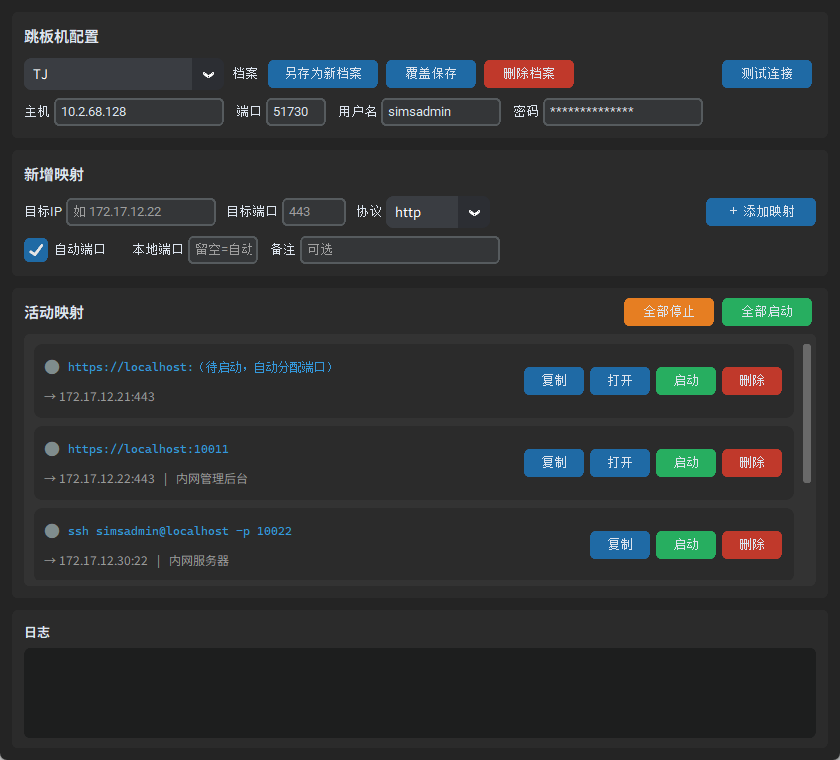
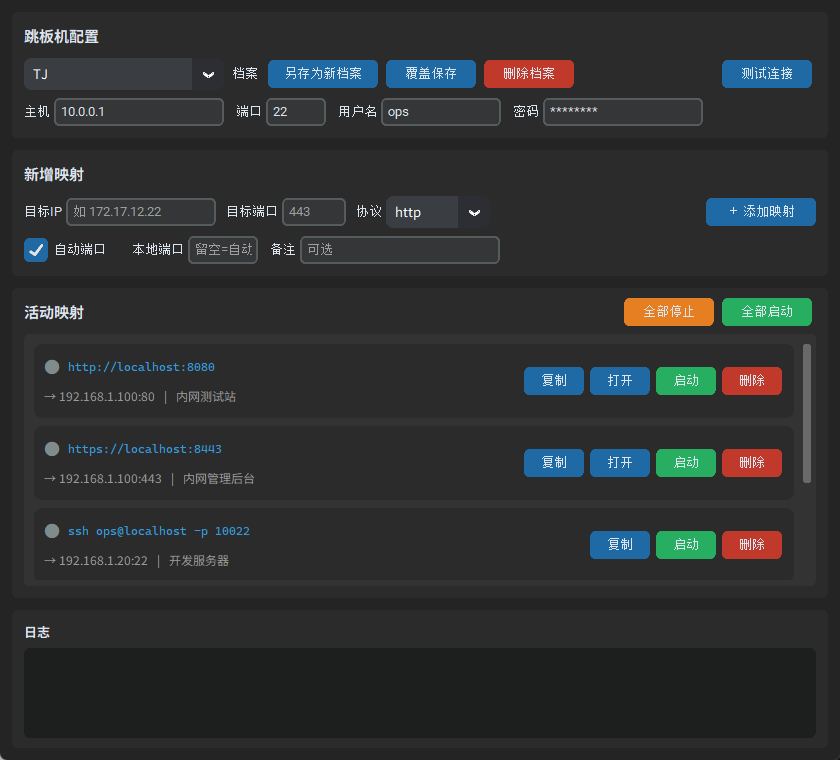
Rename to JumpTunnel, polish UI, refresh docs
- 项目重命名为 JumpTunnel（窗口标题/exe 名/pyproject/scripts 全部同步）
- UI 字体全局替换：Noto Sans SC（界面）+ Cascadia Code（等宽内容）
- 下拉框美化：深灰底色、统一字体、高度对齐
- README 重写为中英文双语互链版本，补充使用场景与打包流程
- 截图改用虚构示例数据，避免泄露真实配置

diff --git a/main.py b/main.py
@@ -291,7 +291,7 @@ class MappingRow(ctk.CTkFrame):
 class App(ctk.CTk):
     def __init__(self):
         super().__init__()
-        self.title("SSH 端口转发工具")
+        self.title("JumpTunnel — SSH 端口转发工具")
         self.geometry("820x720")
         self.minsize(760, 600)
 

diff --git a/README.en.md b/README.en.md
@@ -1,4 +1,4 @@
-# SSH Port Forwarding Tool
+# JumpTunnel — SSH Port Forwarding Tool
 
 English | **[中文](./README.md)**
 
@@ -52,7 +52,7 @@ This means: through jump host `tj`, map the internal `172.17.12.22:443` to your 
 
 ### Option 1: Use the prebuilt exe (easiest — nothing to install)
 
-Get `SSHForwardTool.exe` and **double-click to run**.
+Get `JumpTunnel.exe` and **double-click to run**.
 
 > The first launch is 1–2 seconds slower (a single-file exe has to self-extract). This is normal.
 
@@ -141,7 +141,7 @@ uv run pyinstaller build.spec --noconfirm
 When done, the single-file exe is at:
 
 ```
-dist/SSHForwardTool.exe
+dist/JumpTunnel.exe
 ```
 
 About 15MB — **copy it to anyone and they can double-click to run it, no Python needed**.

diff --git a/README.md b/README.md
@@ -1,4 +1,4 @@
-# SSH 端口转发工具
+# JumpTunnel — SSH 端口转发工具
 
 **[English](./README.en.md)** | 中文
 
@@ -52,7 +52,7 @@ ssh -N -L 10011:172.17.12.22:443 tj
 
 ### 方式一：直接用打包好的 exe（最省事，无需装任何东西）
 
-拿到 `SSHForwardTool.exe`，**双击运行**即可。
+拿到 `JumpTunnel.exe`，**双击运行**即可。
 
 > 首次启动会稍慢 1~2 秒（单文件 exe 需要解压），属正常现象。
 
@@ -141,7 +141,7 @@ uv run pyinstaller build.spec --noconfirm
 打包完成后，单文件 exe 在：
 
 ```
-dist/SSHForwardTool.exe
+dist/JumpTunnel.exe
 ```
 
 约 15MB，**拷给别人双击即可运行，对方无需安装 Python**。
